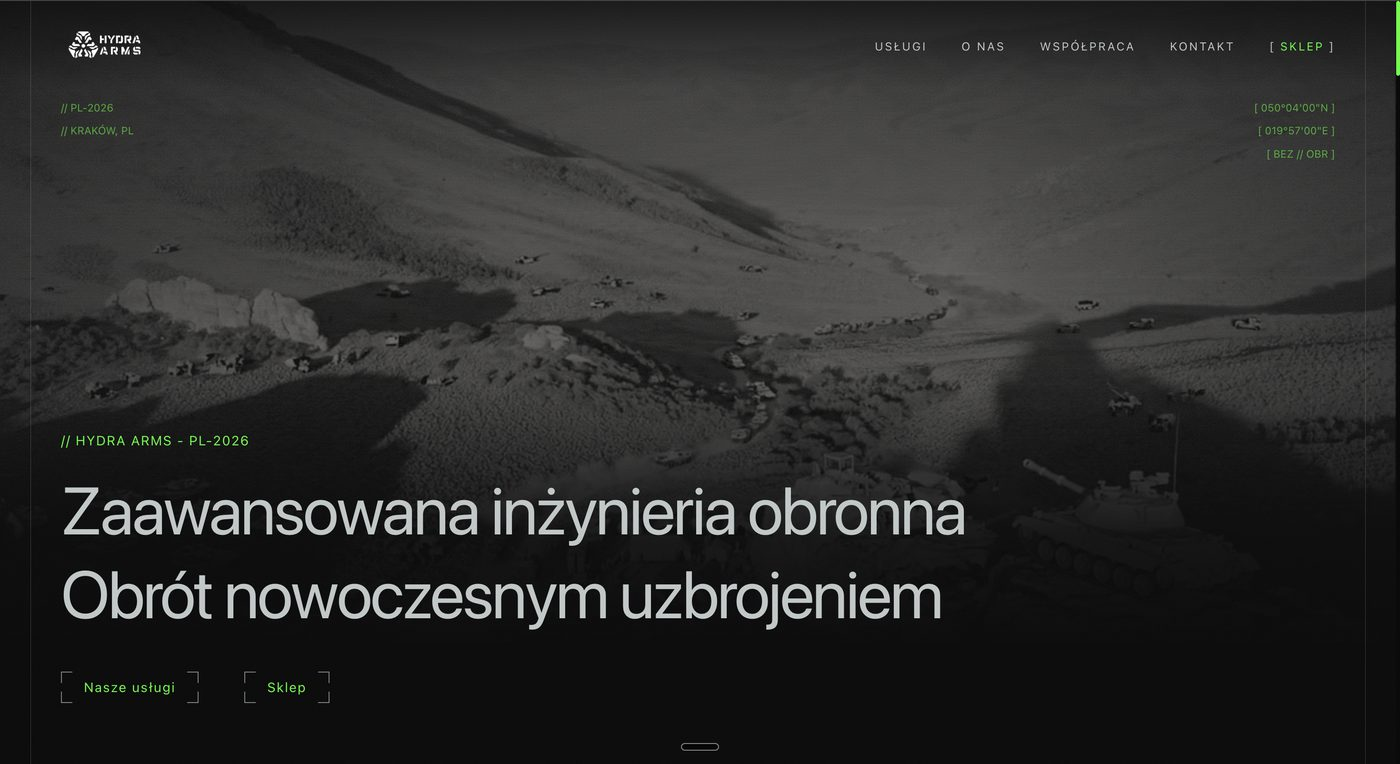
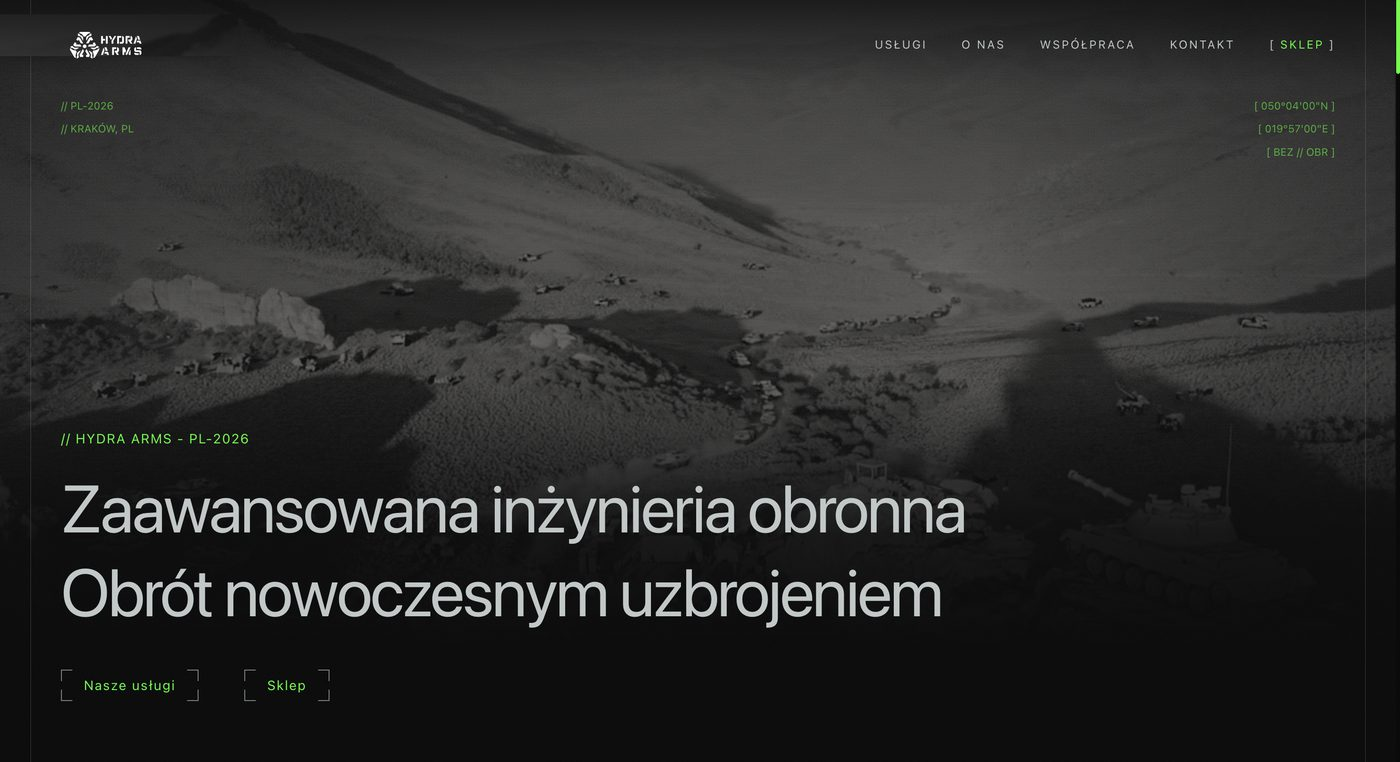
SS-1.17: Hydra Arms — zrzut bez przycinania, okno w proporcji obrazu

diff --git a/src/components/CaseShowcase.tsx b/src/components/CaseShowcase.tsx
@@ -26,11 +26,17 @@ const t = {
 
 // Cropped window: the real screen's proportions, cut at the bottom like a
 // screenshot; hairline frame, tone only.
-function Window({ children, dark = false }: { children: React.ReactNode; dark?: boolean }) {
+function Window({
+  children,
+  dark = false,
+  // Fixed 340 px crop for rebuilt screens; `natural` lets a real
+  // screenshot keep its own proportions instead.
+  natural = false,
+}: { children: React.ReactNode; dark?: boolean; natural?: boolean }) {
   return (
     <div
       aria-hidden="true"
-      className={`h-[340px] w-full max-w-[560px] overflow-hidden rounded-md border border-line ${dark ? "bg-surface" : "bg-surface-raised"}`}
+      className={`w-full max-w-[560px] overflow-hidden rounded-md border border-line ${natural ? "" : "h-[340px]"} ${dark ? "bg-surface" : "bg-surface-raised"}`}
     >
       {children}
     </div>
@@ -132,18 +138,18 @@ export function CaseShowcase({ name, accent }: CaseShowcaseProps) {
   }
 
   if (name === "Hydra Arms") {
-    // Real screenshot of the site's hero (tj, 2026-09-27) in the same
-    // cropped window as the rebuilt screens; the image is a 1400 px JPEG
-    // in /public/cases, covered from the top.
+    // Real screenshot of the site's hero (tj, 2026-09-27), uncropped: the
+    // window takes the image's own proportions. 1400 px JPEG in
+    // /public/cases, a browser tooltip painted out of the top-left corner.
     return (
-      <Window dark>
+      <Window dark natural>
         <Image
           src="/cases/hydra-arms.jpg"
           alt=""
           width={1400}
-          height={764}
-          sizes="(min-width: 1024px) 560px, 100vw"
-          className="h-full w-full object-cover object-top"
+          height={762}
+          unoptimized
+          className="block h-auto w-full"
         />
       </Window>
     );

diff --git a/docs/tasks/SS-1.17.md b/docs/tasks/SS-1.17.md
@@ -56,7 +56,7 @@ zostało zmienione i dlaczego.
 - [x] prompt 29 „kolejność Sea Clouds → Fjordanglers → Hydra, ramka wybranej karty wypełnia się 0 → 100 %, po 5 s karuzela przechodzi dalej”: kolejność w `site.ts`; `CaseShowcase` kluczowany nazwą; w otwartej pozycji SVG `rect` (pathLength 100) w akcencie sprawy z `stroke-dashoffset` 100 → 0 przez 5 s liniowo (`.case-progress` w globals.css); po 5 s `active` = następna; klik restartuje cykl od klikniętej; pauza przy najechaniu/fokusie listy, przy ukrytej karcie i przy otwartym dialogu; `prefers-reduced-motion` = bez autoplay, ramka pełna; przy zmianie sprawy rozwinięte szczegóły po lewej i panel po prawej wchodzą jak reveal sekcji (`.case-swap`: opacity + 8 px, 350 ms ease-out, re-mount przez `key`)
 - [x] prompt 30 „animacje płynniej; usuń efekt myszy na kartach i sekcji”: akordeon realizacji — wysokość przez `grid-template-rows` 0fr → 1fr (500 ms ease-out) zamiast `hidden`, zamknięte z `inert`; swap treści 600 ms, 12 px, miękki ease-out, panel 120 ms później; `SettlingEdge` bez reakcji na wskaźnik (zostaje osiadanie przy odsłonięciu) na krawędziach pasma i czapkach kart usług
 - [x] prompt 31 „odbuduj ekrany systemów” (zrzuty od tj: panel zapytania Fjordanglers, hero strony Hydra Arms, strona dokumentu SCL DCS): `CaseShowcase` jako przycięte okna 560×340 w tokenach strony — ta sama struktura co prawdziwe widoki (sidebar, nagłówek, zakładki, siatka pól, pipeline 8 kroków, kolumna bieżącej rewizji), dane zastępcze, bez brandingu klientów; typografia 9–11 px, żeby czytało się jak zrzut; Hydra na ciemnym z siatką zamiast fotografii
-- [x] prompt 32 „Hydra — prawdziwy zrzut”: `public/cases/hydra-arms.jpg` (zrzut hero od tj, 1400 px, JPEG ~99 kB) w tym samym oknie 560×340 (`object-cover`, od góry) przez `next/image`; odbudowany hero usunięty
+- [x] prompt 32 „Hydra — prawdziwy zrzut, bez przycinania, okno w proporcji obrazu”: `public/cases/hydra-arms.jpg` (drugi zrzut hero od tj, 1400×762, JPEG; dymek przeglądarki w lewym górnym rogu zamalowany lustrzanym fragmentem tła, logo Hydra Arms z `public/partners` wkomponowane na biało w tym miejscu, 150 px na 2940) w oknie `natural` (proporcja obrazu, bez stałej wysokości) przez `next/image`; odbudowany hero usunięty
 
 ## Gotowe, gdy
 - każdy punkt zakresu ma odhaczony wpis i notatkę z realizacji
